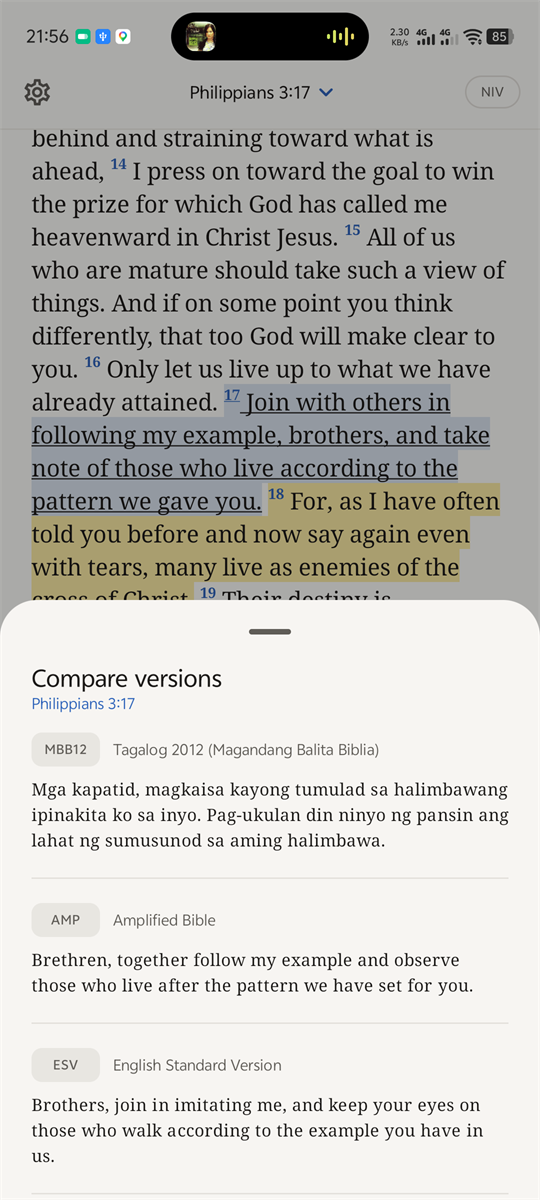
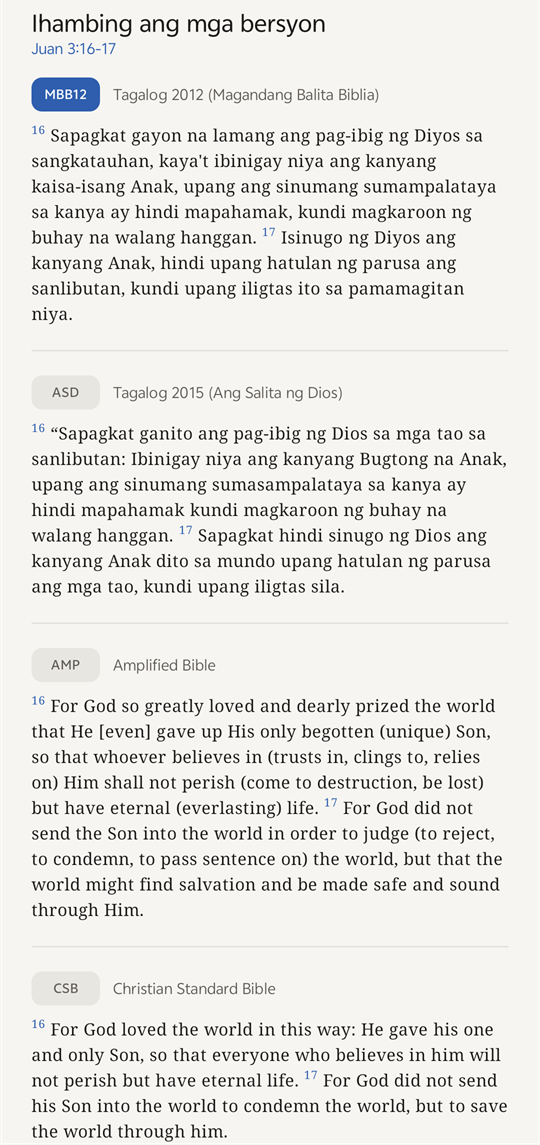
Update README screenshots to show the current main features
Eight new screenshots (status bar cropped, 540 px wide): reader with a
highlight, a note and Listen reading aloud; full-text search; the verse
panel; Compare; the notes list; a note; the ten versions; themes.

diff --git a/README.md b/README.md
@@ -14,10 +14,10 @@
 </div>
 
 <p align="center">
-  <img src="docs/screenshots/reader.png" width="200" alt="Reader">
-  <img src="docs/screenshots/jump-to-verse.png" width="200" alt="Jump to a verse">
-  <img src="docs/screenshots/verse-actions.png" width="200" alt="Verse actions">
-  <img src="docs/screenshots/compare.png" width="200" alt="Compare versions">
+  <img src="docs/screenshots/reader.png" width="200" alt="Reader with a highlight, a note and Listen reading aloud">
+  <img src="docs/screenshots/search.png" width="200" alt="Full-text search for pag-ibig">
+  <img src="docs/screenshots/verse-actions.png" width="200" alt="Verse panel: highlight, copy, share, compare, note">
+  <img src="docs/screenshots/compare.png" width="200" alt="Compare a passage across versions">
 </p>
 
 Biblia Ko works **completely offline**. It needs no account and no internet, and asks for **no permissions** (internet, storage, location, and so on). It bundles ten translations (two Tagalog, eight English), searches across the whole Bible quickly, opens any verse instantly, and can **read the Bible aloud** in Tagalog or English using your phone's built-in offline voices.
@@ -64,10 +64,10 @@ Tap any verse to open the verse panel:
 - **Export** your settings, highlights and notes to a file (Downloads, Google Drive, …) and **import** it on another phone. Importing only adds: nothing is deleted, and importing the same file twice is harmless. No storage permission is needed.
 
 <p align="center">
-  <img src="docs/screenshots/versions.png" width="200" alt="Version picker">
-  <img src="docs/screenshots/filters.png" width="200" alt="Book filters">
-  <img src="docs/screenshots/books-grid.png" width="200" alt="Book grid">
-  <img src="docs/screenshots/verse-layout.png" width="200" alt="Verse layout setting">
+  <img src="docs/screenshots/notes.png" width="200" alt="All notes in one list">
+  <img src="docs/screenshots/note.png" width="200" alt="A note with go-to-verse and share">
+  <img src="docs/screenshots/versions.png" width="200" alt="Ten Bible versions">
+  <img src="docs/screenshots/themes.png" width="200" alt="Themes and accent colours (Takipsilim)">
 </p>
 
 ## Download & install
